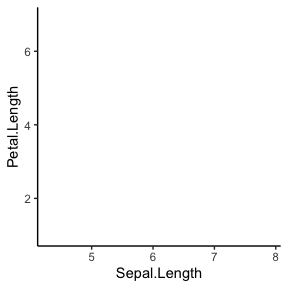
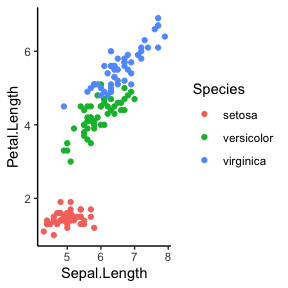
added missing geom_point()

diff --git a/README.md b/README.md
@@ -66,7 +66,8 @@ Fisher’s classic iris data:
 
     ggplot(data=iris, 
            mapping=aes(x=Sepal.Length, 
-                      y=Petal.Length, color=Species))
+                      y=Petal.Length, color=Species))+
+      geom_point()
 
 <img src="man/figures/README-example_basic-1.png" width="50%" />
 
